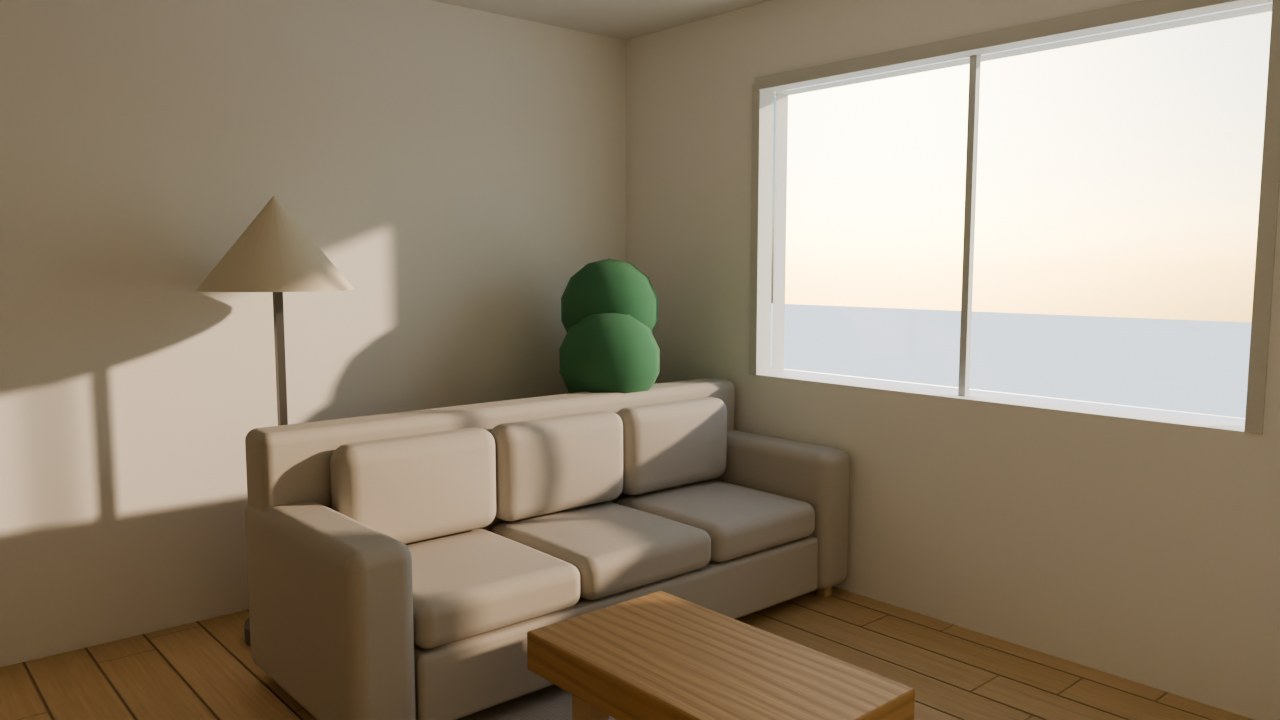
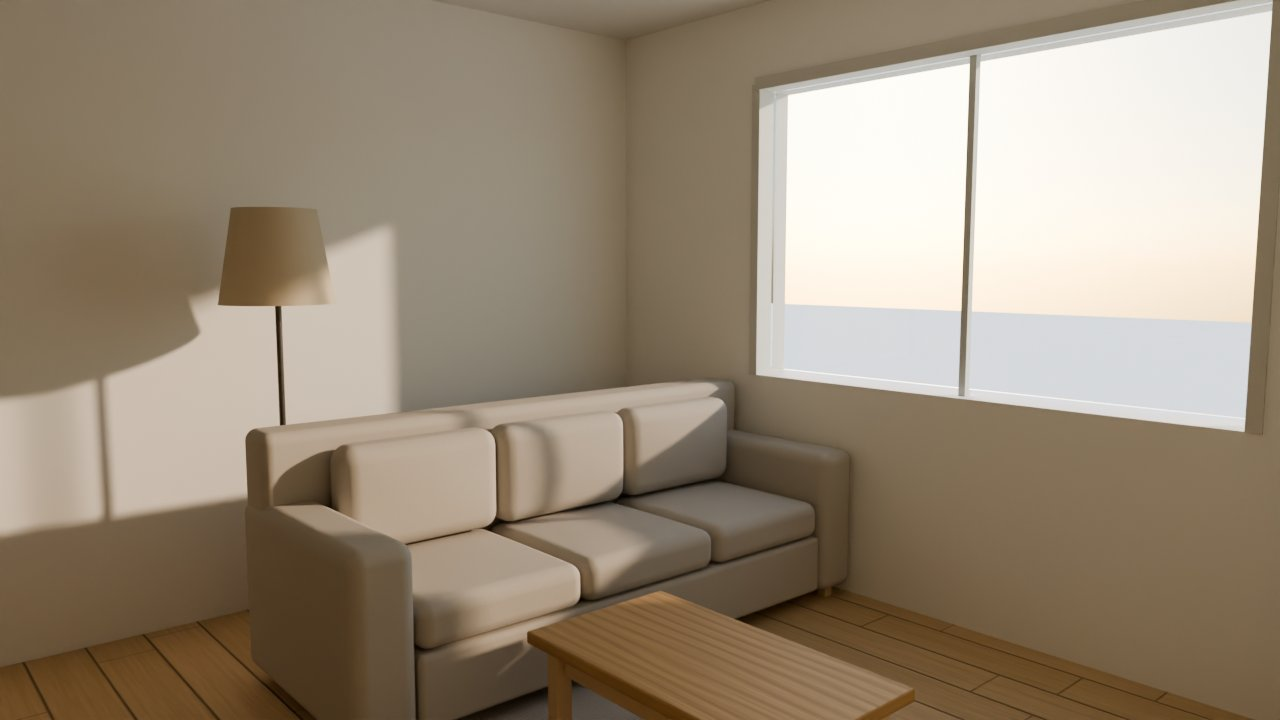
feat: translucent leaves and lamp shades in the Cycles render
- Blender combines atelier:leaf and atelier:lampshade materials with a
  Translucent BSDF of their base colour: leaves add transmission on top of
  their reflection (a plain mix darkened the foliage by 14 % under side light),
  shades trade 40 % of their reflection for transmission. Geometry untouched.
- result.json reports materials.translucent; the Blender smoke test checks it
  with a new leaf part in the fixture room.
- Demo plant moved beside the living window: after the sofa turn it overlapped
  the sofa by 12 cm.
- Living room demos re-rendered with the hall daylight and translucency; docs
  record the CI of the previous batch.

diff --git a/src/data/defaultProject.ts b/src/data/defaultProject.ts
@@ -58,7 +58,7 @@ export const demoProject: Project = {
     furniture('sink-2','sink','Lavabo 2',8.705,5.03,.6,.5,.84,270,'#ecece8'),
     furniture('toilet-2','toilet','Inodoro 2',8.755,5.56,.4,.6,.65,270,'#f7f6f3'),
     furniture('shower-2','shower','Ducha 2',9.51,5.46,.8,.9,2,180,'#f0eeeb'),
-    furniture('plant-1','plant','Ficus',.6,.6,.5,.5,1.2,0,'#5f8261'),
+    furniture('plant-1','plant','Ficus',3.6,.45,.5,.5,1.2,0,'#5f8261'),
   ],
 };
 

diff --git a/render-engine/blender/atelier_render.py b/render-engine/blender/atelier_render.py
@@ -185,8 +185,51 @@ def make_glowing_shade(material: bpy.types.Material, temperature: float) -> None
     set_input(node, ("Emission Strength",), 2.5)
 
 
+# Thin surfaces that pass light to their back face. A leaf transmits on top of
+# what it reflects (green leaves reflect and transmit roughly alike, both low),
+# so its transmission is added at 60 % of the base colour; a fabric shade trades
+# 40 % of its reflection for transmission, which keeps a white shade below 1.
+TRANSLUCENCY = {"leaf": ("add", 0.6), "lampshade": ("mix", 0.4)}
+
+
+def add_translucency(material: bpy.types.Material, mode: str, amount: float) -> bool:
+    """Combine the imported Principled surface with a Translucent BSDF of its
+    base colour (texture links included). Geometry and colour stay as exported."""
+    node = principled(material)
+    if node is None:
+        return False
+    tree = material.node_tree
+    output = next((n for n in tree.nodes if n.type == "OUTPUT_MATERIAL" and n.is_active_output), None)
+    if output is None or not output.inputs["Surface"].is_linked:
+        return False
+    surface = output.inputs["Surface"].links[0].from_socket
+    translucent = tree.nodes.new("ShaderNodeBsdfTranslucent")
+    base = node.inputs["Base Color"]
+    weight = amount if mode == "add" else 1.0
+    if base.is_linked:
+        scale = tree.nodes.new("ShaderNodeVectorMath")
+        scale.operation = "SCALE"
+        scale.inputs["Scale"].default_value = weight
+        tree.links.new(base.links[0].from_socket, scale.inputs[0])
+        tree.links.new(scale.outputs["Vector"], translucent.inputs["Color"])
+    else:
+        r, g, b, alpha = base.default_value
+        translucent.inputs["Color"].default_value = (r * weight, g * weight, b * weight, alpha)
+    if mode == "add":
+        combine = tree.nodes.new("ShaderNodeAddShader")
+        tree.links.new(surface, combine.inputs[0])
+        tree.links.new(translucent.outputs[0], combine.inputs[1])
+    else:
+        combine = tree.nodes.new("ShaderNodeMixShader")
+        combine.inputs[0].default_value = amount
+        tree.links.new(surface, combine.inputs[1])
+        tree.links.new(translucent.outputs[0], combine.inputs[2])
+    tree.links.new(combine.outputs[0], output.inputs["Surface"])
+    return True
+
+
 def prepare_materials(manifest: dict) -> dict:
-    stats = {"glass": 0, "doors": 0, "shades": 0}
+    stats = {"glass": 0, "doors": 0, "shades": 0, "translucent": 0}
     night = manifest["lighting"]["preset"] == "night"
     for material in bpy.data.materials:
         role = material_role(material)
@@ -203,6 +246,8 @@ def prepare_materials(manifest: dict) -> dict:
         elif role == "lampshade" and night:
             make_glowing_shade(material, 2700)
             stats["shades"] += 1
+        if role in TRANSLUCENCY and add_translucency(material, *TRANSLUCENCY[role]):
+            stats["translucent"] += 1
     return stats
 
 

diff --git a/render-engine/tests/test_blender_smoke.py b/render-engine/tests/test_blender_smoke.py
@@ -32,6 +32,7 @@ class BlenderSmokeTest(unittest.TestCase):
             self.assertEqual(result["status"], "succeeded")
             self.assertTrue(result["ceiling"], "camera below wall height should close the room")
             self.assertEqual(result["materials"]["glass"], 1)
+            self.assertEqual(result["materials"]["translucent"], 1, "leaf material should pass light through")
             self.assertGreater(result["image"]["meanLuminance"], 0.05, "render is black")
             self.assertLess(result["image"]["clippedRatio"], 0.5, "render is blown out")
             # Afternoon preset applies the default window pull and reports clipping by zone.

diff --git a/render-engine/tests/fixtures.py b/render-engine/tests/fixtures.py
@@ -98,6 +98,7 @@ def room_glb() -> bytes:
         {"name": "w", "box": (0, h / 2, 1.5, t, h, 3), "color": wall, "material": "wall", "extras": tag("wall-w", "wall")},
         {"name": "e", "box": (4, h / 2, 1.5, t, h, 3), "color": wall, "material": "wall", "extras": tag("wall-e", "wall")},
         {"name": "sofa", "box": (2, 0.4, 2.4, 2.0, 0.8, 0.8), "color": (0.62, 0.55, 0.46), "extras": tag("sofa-1", "furniture", "sofa")},
+        {"name": "leaves", "box": (3.6, 0.8, 2.6, 0.3, 0.3, 0.3), "color": (0.2, 0.4, 0.15), "material": "atelier:leaf", "extras": tag("plant-1", "furniture", "plant")},
     ])
 
 

diff --git a/PROJECT_STATUS.md b/PROJECT_STATUS.md
@@ -13,11 +13,13 @@ Repositorio: `alexisalbaceterodriguez-cmd/project-house-rendering`; rama de refe
 - **Validación local:** 113 unitarias Vitest (6 nuevas de paquete), build, 21 pruebas Python del motor (contrato, API, cola, cancelación, reinicio, idempotencia, revisión del motor y humo real con Blender), Playwright de estudio/editor (14) y nuevo `e2e/cycles-package.e2e.ts` (@smoke): motor bloqueado, paquete descargado, ZIP, manifiesto, GLB con `atelierId` y proporción de la vista previa. Flujo real UI → API → Cycles → galería comprobado en Chromium; panel revisado a 390 px. CI añade las pruebas Python del motor (sin Blender, la de humo se omite).
 - **CI del bloque:** [Test and build 44760629762](https://github.com/alexisalbaceterodriguez-cmd/project-house-rendering/actions/runs/44760629762), SHA exacto `2e4207d`, completed/success, job 136371877181: 113 unitarias, 21 pruebas Python del motor (humo Blender omitido: sin Blender en CI), build y 42 E2E Chromium (incluido `cycles-package`). Los renders Cycles reales solo se han verificado en local (RTX 5070, OptiX).
 - **R4 horneado (20/11):** 10 unitarias nuevas (`surface-textures.test.ts`: determinismo, escala por acabado, tono, rugosidad dieléctrica, normal sin costuras, caché y formato de exportación) y `cycles-package` amplía el control del GLB (suelo `atelier:floor-oak` con escala 1/1,52, normal y metal/rugosidad; textil con normal; ≥ 6 imágenes). Build y subconjunto E2E 3D en local; un fallo aislado de `product.e2e` bajo carga paralela pasó al repetirlo (10/10). Publicado en main `c8d89f945bd5faf42f7540fcc6733e2d004f3ffe`; CI [Test and build 44764736573](https://github.com/alexisalbaceterodriguez-cmd/project-house-rendering/actions/runs/44764736573), completed/success, job 136386215608: 123 unitarias, 21 pruebas Python del motor (humo Blender omitido), build y 42 E2E Chromium.
-- **Límites reales:** mobiliario con geometría simplificada del editor; texturas sintéticas, no escaneadas (la trama textil de 8 cm apenas se distingue a distancia de salón); generación ~120 ms por textura de 512 px en el hilo principal la primera vez; suelos y muebles con material de la biblioteca PBR usan sus mapas propios; el window pull es una mezcla de exposición fotográfica (no es una medida física del exterior) y el exterior sigue siendo cielo procedimental sin entorno. Motor local de un usuario, sin autenticación ni GPU en CI. No acredita fidelidad fotográfica final ni cierra F4.
+- **Límites reales:** mobiliario por piezas paramétricas, todavía simplificado; texturas sintéticas, no escaneadas (la trama textil de 8 cm apenas se distingue a distancia de salón); generación ~120 ms por textura de 512 px en el hilo principal la primera vez; suelos y muebles con material de la biblioteca PBR usan sus mapas propios; el window pull es una mezcla de exposición fotográfica (no es una medida física del exterior) y el exterior sigue siendo cielo procedimental sin entorno. Motor local de un usuario, sin autenticación ni GPU en CI. No acredita fidelidad fotográfica final ni cierra F4.
 - **R5 window pull (20/11):** `atelier_render.py` mide el recorte por zonas con el pase de ID de objeto (`image.zones`: proporción de ventana, recorte en ventana/interior, luminancia media) y aplica el window pull con un nodo Light Path (rayos sin rebote difuso y que no son de sombra). Día: sin recorte con o sin window pull; con él la ventana pasa de 0,86 a 0,79 de luminancia y se ve el degradado del cielo. 22 pruebas Python (incluido humo real con Blender: window pull por defecto y zonas), unitaria del paquete (`windowPull` 1,5 en tarde), build y `cycles-package` smoke en local. Publicado en `6e6d0c61af2af43f81ade0af3e9941571113b442`; CI [44767141157](https://github.com/alexisalbaceterodriguez-cmd/project-house-rendering/actions/runs/44767141157) **failure** (123 unitarias, 22 Python y 41/42 E2E correctas): falló `product.e2e` «inserta tres modelos…» al exportar la imagen PNG, también en el reintento.
 - **Fallo real de exportación de imagen (20/11):** no lo causaba el window pull. `gl.compileAsync` de three 0.180 sondea los materiales desde un `setTimeout`; si un GLB o una textura sustituye un material durante la espera, lanza `Cannot read properties of undefined (reading 'isReady')` y la promesa no se resuelve nunca: el botón Imagen quedaba colgado sin aviso y el bloqueo `capturing` impedía nuevas capturas. Reproducido en local en 5 de 20 ejecuciones. `CaptureRig` compila ahora de forma síncrona justo antes de renderizar. Tras el cambio: 16/16 ejecuciones correctas de esa prueba, `studio-render`/`studio-reference`/`cycles-package` (7) correctas, unitarias focalizadas, `tsc -b` y build. Publicado en `98625f8851c1f8ca2fe1bc59c244d96b167e3a05`; CI [44770870638](https://github.com/alexisalbaceterodriguez-cmd/project-house-rendering/actions/runs/44770870638) (job 136407862177) **success**: 123 unitarias, 22 Python (1 omitida) y 42/42 E2E.
 - **Aristas biseladas del mobiliario (20/11):** `src/lib/boxGeometry.ts` (`physicalBox`, `EDGE_RADIUS`) redondea las aristas dentro de las mismas medidas exteriores: tapicería de sofá y colchón/almohada 3,5 cm, cojines y edredón 2,5 cm, madera (encimeras de mesa/escritorio, patas, silla, base y cabecero de cama) 6 mm, carcasas (armario, cuerpo de isla) 4 mm; el radio se limita al 45 % del lado más fino. Muros, huecos y vidrio siguen siendo cajas exactas. Los objetos del taller usan el mismo helper (sin cambio de comportamiento). El asiento del sofá queda 1,5 cm por detrás del frontal de los brazos: sus caras coplanares producían una mancha de z-fighting visible en visor y Cycles; la profundidad total la siguen marcando los brazos. Demo nórdica tarde re-renderizada (misma cámara): 9,38 s / 10,33 s, luminancia 0,536, 0 % recortado; las aristas suaves se ven igual en Cycles y WebGL. 4 unitarias nuevas (`box-geometry.test.ts`: medidas exteriores exactas, límite del radio, caja plana sin radio con UV en metros, normales suaves), `tsc -b`, build y `cycles-package` + `product` E2E (11/11) en local. Publicado en `bfddce35f3de442cdd6eab98bb0053f78e48c92f`; CI [44791837477](https://github.com/alexisalbaceterodriguez-cmd/project-house-rendering/actions/runs/44791837477) (job 136481230595) **success**: 127 unitarias, 22 Python (1 omitida) y 42/42 E2E. Sigue siendo geometría simplificada: un sofá de cajas redondeadas, no un modelo tapizado real.
-- **Siguiente tarea exacta:** tapicería paramétrica de sofá y cama — sustituir el bloque único de asiento/respaldo del sofá por cojines de asiento y respaldo separados (número según anchura, holgura de 1 cm entre ellos, ligera curvatura superior) sobre un zócalo con patas, y en la cama separar colchón, canapé y patas; mismas medidas exteriores y huella en plano, mismo GLB para Cycles; verificar con la demo nórdica tarde (PNG Cycles vs WebGL), unitaria de envolvente de las piezas, build y `cycles-package` smoke.
+- **Mobiliario paramétrico por piezas y luz diurna en recintos sin ventana (20/11):** `src/lib/furnitureParts.ts` construye, dentro de la huella y la altura del plano, sofá (zócalo, patas, brazos, cojines de asiento y respaldo según anchura con holgura de 1 cm), cama (canapé, patas, colchón, cabecero, almohadas, edredón), armario (carcasa, puertas con tiradores), mesa, silla, isla, cocina lineal (módulos, encimera, placa, fregadero, grifo), frigorífico, inodoro (taza torneada, cisterna, asiento, tapa, pulsador), mueble de lavabo suspendido (cajones, lavabo sobre encimera, grifo), ducha (plato, desagüe, mamparas de vidrio, columna, rociador), lámpara de pie (pantalla con rol `lampshade`) y maceta; las piezas torneadas usan `latheGeometry` (`boxGeometry.ts`) y el follaje de la planta (`plantGeometry.ts`) es determinista por id y se recorta a la huella y la altura. El GLB del render se exporta del mismo grafo, así que Cycles recibe las mismas mallas. Proyecto de ejemplo: los muebles contra muro miran hacia la estancia (los proyectos guardados conservan sus giros) y ambos baños se redistribuyen para que la puerta abra libre (ducha al fondo). **Recintos sin ventana:** los presets tarde/día envían `lighting.litRooms` (estancias sin ninguna ventana propia, 4 W/m², validadas contra los ids de recintos en el contrato) y Blender añade una luz de área de techo a 5000 K; noche y estudio mandan `[]`. En la demo se encienden vestíbulo (24 W) y baños (13 W): el baño ya no sale negro. Demos misma cámara Cycles/WebGL (tarde, 256 muestras, RTX 5070 OptiX): salón 9,42 s / 10,45 s, luminancia 0,535; dormitorio 10,04 s / 11,06 s, 0,400; baño 1 16,42 s / 17,66 s, 0,637; 0 % recortado en las tres (salón y dormitorio renderizados antes de la luz del vestíbulo). Validación local: `tsc -b`, 173 unitarias (nuevas `furniture-parts.test.ts`: piezas dentro de la envolvente; `box-geometry` torneado; `render-package` litRooms), 23 Python del motor, build y E2E `cycles-package`, `product`, `studio-render` y editor (25/25; `cycles-package` repetido tras litRooms). Publicado en `bc8292624872ca7b5e518740c9daa86cc1bac35f`; CI [44802683703](https://github.com/alexisalbaceterodriguez-cmd/project-house-rendering/actions/runs/44802683703) (job 136518610197) **success**: 173 unitarias, 23 Python (humo Blender omitido sin Blender) y 42/42 E2E. Límites: piezas geométricas simplificadas, sin simulación de tejido, sin translucidez de hojas ni pantallas, texturas sintéticas; no es fidelidad fotográfica.
+- **Hojas y pantallas translúcidas en Cycles (20/11):** `atelier_render.py` combina los materiales `atelier:leaf` y `atelier:lampshade` con un BSDF Translucent de su color base (enlaces de textura incluidos), sin tocar geometría ni GLB: la hoja **añade** transmisión al 60 % del color base sobre su reflexión y la pantalla **mezcla** un 40 % hacia transmisión (una tela blanca no supera 1). Primer intento descartado tras medirlo: mezclar un 30 % también en hojas oscurecía el follaje un 14 % con luz lateral. A/B misma cámara y escena (primer plano de la planta junto a la ventana, tarde): verde medio del follaje 0,125 → 0,161 (+29 %) frente a sin translucidez; la pantalla nocturna sigue brillando. `result.json` informa `materials.translucent` (3 en el salón: dos tonos de hoja + pantalla) y la prueba de humo con Blender lo comprueba con una pieza `atelier:leaf` nueva en el fixture. La planta del ejemplo pasa a x 3,6 / y 0,45, junto a la ventana: tras girar el sofá quedaba solapada 12 cm con él. Demos del salón re-renderizadas (distribuidor iluminado + translucidez): tarde 13,73 s / 15,06 s, luminancia 0,546; noche 15,59 s / 16,88 s, 0,566; 0 % recortado. 23 Python en local con humo Blender real. Publicado en __SHA2__; CI __CI2__. Límite: BSDF de superficie fina, no dispersión subsuperficial medida.
+- **Siguiente tarea exacta:** re-renderizar la demo del dormitorio con la luz del distribuidor y añadir al README una demo de cocina-comedor (misma cámara Cycles/WebGL) que muestre isla/cocina lineal, frigorífico, mesa y sillas; revisar en ella encimeras, grifería metálica y vidrio, y corregir en `furnitureParts.ts` lo que se vea mal, con unitaria de envolvente y `cycles-package` smoke. Después texturas escaneadas con licencia libre donde aporten realismo.
 
 ## Estado anterior — presentación de interiores, 20/11/2026
 

diff --git a/render-engine/README.md b/render-engine/README.md
@@ -81,6 +81,8 @@ El importador glTF de Blender asigna color base, metalicidad, rugosidad, normal,
 
 **Recintos sin ventana** (`lighting.litRooms`, lista de `{id, power}` en W; cada `id` debe existir en `rooms`): con los presets de día el editor enciende la luz de techo de los recintos que no tienen ventana propia (baños, distribuidor) con 4 W/m² a 5000 K, para que no salgan negros. De noche todos los recintos llevan el relleno tenue de siempre (1,5 W/m², 3200 K).
 
+**Superficies finas translúcidas:** los materiales `atelier:leaf` (hojas) y `atelier:lampshade` (pantallas) se combinan en Blender con un BSDF Translucent de su mismo color base, sin tocar la geometría. La hoja añade transmisión al 60 % del color base sobre su reflexión (las hojas verdes reflejan y transmiten en proporción parecida y baja); la pantalla reparte un 40 % de su reflexión hacia transmisión, de modo que una tela blanca no supera 1. En el primer planteamiento (mezcla del 30 % también en hojas) el follaje salía un 14 % más oscuro con luz lateral; con la transmisión añadida el verde medio del follaje sube un 29 % frente a la versión sin translucidez (misma cámara y escena). `result.json` informa `materials.translucent`.
+
 **Window pull** (`lighting.windowPull`, 0–4 EV; por defecto 1,5 en `afternoon`/`day` y 0 en el resto): como la mezcla de exposición de un fotógrafo de interiores, el cielo se oscurece solo en los caminos que lo *ven* (cámara, a través del vidrio o en reflejos especulares) y conserva su intensidad en los rebotes difusos y rayos de sombra, de modo que la luz que entra en la sala no cambia. `result.json` incluye `image.zones` (proporción de ventana, recorte en ventana e interior y luminancias medias) cuando hay pase de ID de objeto.
 
 Calidades: `draft` 64, `standard` 256, `high` 1024 muestras con denoiser OpenImageDenoise. Opción de corregir verticales (lens shift).
@@ -93,12 +95,12 @@ Calidades: `draft` 64, `standard` 256, `high` 1024 muestras con denoiser OpenIma
 
 | Preset | Imagen | Render | Total | Luminancia media | Recortado |
 |---|---|---|---|---|---|
-| Tarde (tapicería por piezas) | `nordic-living-afternoon-cycles.jpg` vs `-webgl.jpg` | 9,42 s | 10,45 s | 0,535 | 0 % (antes 11,3 % sin window pull) |
+| Tarde (piezas, distribuidor iluminado, hojas y pantalla translúcidas) | `nordic-living-afternoon-cycles.jpg` vs `-webgl.jpg` | 13,73 s | 15,06 s | 0,546 | 0 % (antes 11,3 % sin window pull) |
 | Tarde, dormitorio principal | `nordic-bedroom-afternoon-cycles.jpg` vs `-webgl.jpg` | 10,04 s | 11,06 s | 0,400 | 0 % |
 | Tarde, baño 1 (sin ventana, luz de techo) | `nordic-bathroom-afternoon-cycles.jpg` vs `-webgl.jpg` | 16,42 s | 17,66 s | 0,637 | 0 % |
-| Noche | `nordic-living-night-cycles.jpg` | 11,22 s | 12,09 s | 0,511 | 0 % |
+| Noche | `nordic-living-night-cycles.jpg` | 15,59 s | 16,88 s | 0,566 | 0 % |
 
-1280 × 720, 256 muestras, OptiX en RTX 5070 Laptop, Blender 4.5.16 LTS. La mesa de centro, la lámpara y el giro del sofá de la demo se añadieron en tiempo de ejecución; no forman parte del proyecto por defecto. Desde el 20/11 el sofá, la cama, la mesa, la silla y el armario tienen aristas redondeadas dentro de sus medidas exteriores (`src/lib/boxGeometry.ts`); el GLB lleva la misma malla que el visor. El mobiliario se compone de piezas paramétricas (`src/lib/furnitureParts.ts`): zócalo, brazos, respaldo y cojines de asiento y respaldo separados con holgura de 1 cm y tapa abombada; cabecero, canapé, colchón, almohadas y edredón dentro de la huella del plano. También armario (puertas con holgura, tiradores y zócalo), mesa, isla, silla, cocina lineal (muebles bajos y altos, encimera, placa, fregadero y grifo), frigorífico, inodoro, mueble de lavabo suspendido con lavabo de sobre encimera, ducha con mampara y rociador, lámpara de pie y maceta; las piezas torneadas (taza, lavabo, grifería, pantalla, maceta) son sólidos de revolución (`latheGeometry`) y la planta tiene follaje generado de forma determinista a partir del id del objeto (`src/lib/plantGeometry.ts`), siempre dentro de la huella y la altura del plano. El frente de cada pieza mira a +z con giro 0; el proyecto de ejemplo gira los muebles apoyados en muros y=fondo o x=0 para que miren a la sala, pero los proyectos guardados conservan sus giros. Las cifras de salón y dormitorio se tomaron antes de encender la luz de techo del distribuidor en los presets de día. Siguen siendo volúmenes paramétricos: no hay costuras, arrugas ni caída de tela simuladas, y las hojas no tienen translucidez propia.
+1280 × 720, 256 muestras, OptiX en RTX 5070 Laptop, Blender 4.5.16 LTS. La mesa de centro, la lámpara y el giro del sofá de la demo se añadieron en tiempo de ejecución; no forman parte del proyecto por defecto. Desde el 20/11 el sofá, la cama, la mesa, la silla y el armario tienen aristas redondeadas dentro de sus medidas exteriores (`src/lib/boxGeometry.ts`); el GLB lleva la misma malla que el visor. El mobiliario se compone de piezas paramétricas (`src/lib/furnitureParts.ts`): zócalo, brazos, respaldo y cojines de asiento y respaldo separados con holgura de 1 cm y tapa abombada; cabecero, canapé, colchón, almohadas y edredón dentro de la huella del plano. También armario (puertas con holgura, tiradores y zócalo), mesa, isla, silla, cocina lineal (muebles bajos y altos, encimera, placa, fregadero y grifo), frigorífico, inodoro, mueble de lavabo suspendido con lavabo de sobre encimera, ducha con mampara y rociador, lámpara de pie y maceta; las piezas torneadas (taza, lavabo, grifería, pantalla, maceta) son sólidos de revolución (`latheGeometry`) y la planta tiene follaje generado de forma determinista a partir del id del objeto (`src/lib/plantGeometry.ts`), siempre dentro de la huella y la altura del plano. El frente de cada pieza mira a +z con giro 0; el proyecto de ejemplo gira los muebles apoyados en muros y=fondo o x=0 para que miren a la sala, pero los proyectos guardados conservan sus giros. La cifra del dormitorio se tomó antes de encender la luz de techo del distribuidor; las del salón (tarde y noche) ya la incluyen, igual que la translucidez, y su tiempo de render sube de unos 9–11 s a 14–16 s. La planta del ejemplo se movió junto a la ventana (x 3,6, y 0,45) porque tras girar el sofá quedaba solapada 12 cm con él; queda fuera de este encuadre. Siguen siendo volúmenes paramétricos: no hay costuras, arrugas ni caída de tela simuladas, y la translucidez es un BSDF de superficie fina, no dispersión subsuperficial medida.
 
 ## Seguridad
 

diff --git a/ROADMAP.md b/ROADMAP.md
@@ -112,7 +112,7 @@ Motor local independiente en [`render-engine/`](render-engine/README.md): el edi
 | R9 | Ediciones IA controladas que preservan la arquitectura | Pendiente |
 | R10 | Presentación cinematográfica (recorridos, variantes) | Pendiente |
 
-Hecho (20/11): aristas biseladas en sofá, cama, mesa, silla y armario, compartidas por visor y GLB sin cambiar medidas exteriores. Siguiente paso: tapicería paramétrica del sofá y la cama (cojines de asiento y respaldo separados, zócalo o patas) y después texturas escaneadas con licencia libre donde aporten realismo.
+Hecho (20/11): aristas biseladas en sofá, cama, mesa, silla y armario; mobiliario paramétrico por piezas (tapicería de sofá y cama, armario, mesa, silla, isla, cocina, frigorífico, inodoro, lavabo, ducha, lámpara y planta, con piezas torneadas) compartido por visor y GLB dentro de la huella del plano; luz de techo diurna en recintos sin ventana (`lighting.litRooms`); hojas y pantallas translúcidas en Cycles. Siguiente paso: demo de cocina-comedor y ajuste de sus piezas; después texturas escaneadas con licencia libre donde aporten realismo.
 
 ### Arquitectura común y secuencia
 
